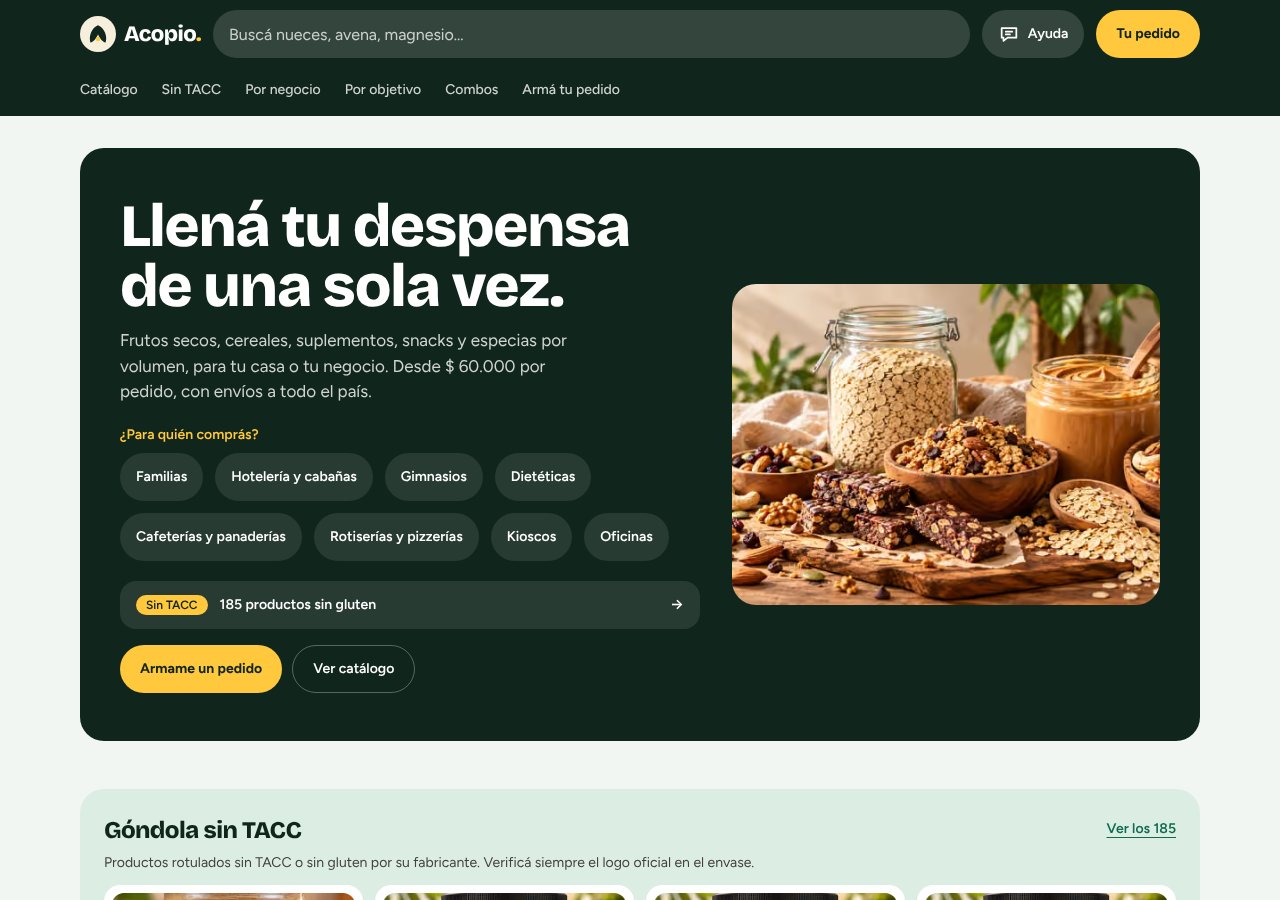
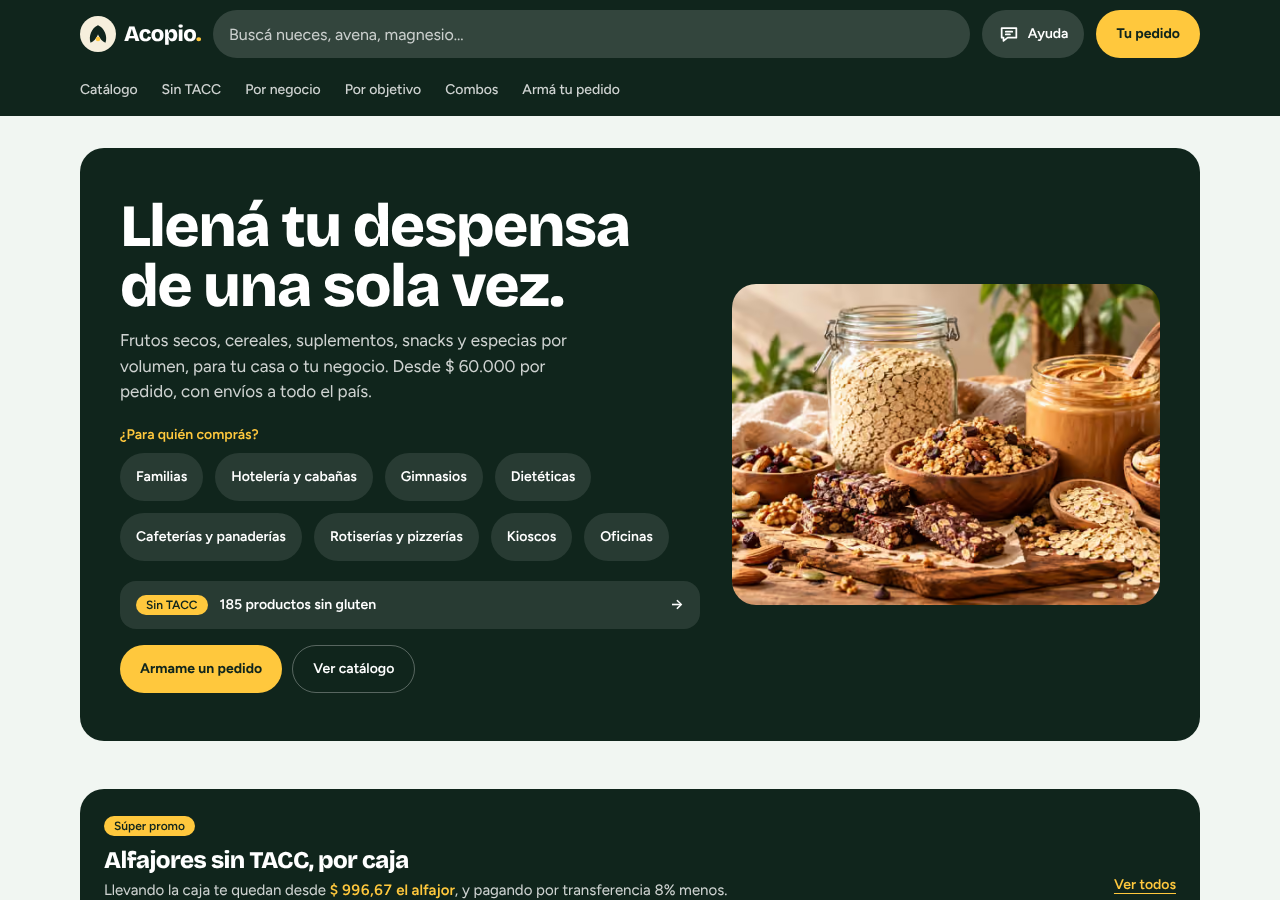
Súper promo de alfajores sin TACC en la portada (#45)
Arriba de la góndola sin TACC va una banda oscura con las cajas de alfajores
sin TACC y el gancho real: cuánto sale el alfajor suelto llevando la caja.
El número sale de dividir el precio por las unidades del rótulo, no es un
descuento inventado.

De paso, toda ficha de producto cuyo envase trae varias unidades muestra el
precio por unidad abajo del precio: es lo que el cliente compara y acá se
vende casi todo por volumen.

El texto blanco va solo en el encabezado y el aviso de la banda: adentro del
riel las fichas son blancas y el texto tiene que seguir oscuro.

Claude-Session: https://claude.ai/code/session_01AdVG5TyZmaUrU68vAP2mxP

Changed region(s): [[0.0625, 0.8711, 0.9375, 1.0]]

diff --git a/src/app/(tienda)/page.tsx b/src/app/(tienda)/page.tsx
@@ -8,7 +8,7 @@ import { leerConfig } from "@/lib/config";
 import { AVISO_SIN_TACC, WHERE_SIN_TACC, wherePublicado } from "@/lib/filtros-producto";
 import { combosTienda, productosTienda } from "@/lib/tienda";
 import { NICHOS, OBJETIVOS } from "@/lib/taxonomia";
-import { pesos } from "@/lib/precios";
+import { pesos, precioPorUnidadSuelta } from "@/lib/precios";
 import { Foto } from "@/components/Foto";
 import { BotonCargarPedido } from "@/components/Carrito";
 import { RielProductos, TarjetaCombo, TituloSeccion } from "@/components/Tienda";
@@ -20,7 +20,9 @@ export const metadata: Metadata = { alternates: { canonical: "/" } };
 export default async function Home() {
   const cfg = await leerConfig();
   const publicado = wherePublicado(cfg.margenMinimoPct);
-  const [sinTacc, totalSinTacc, ganchos, combos, pedidos, portadas, conteos, vendibles] = await Promise.all([
+  const [alfajores, sinTacc, totalSinTacc, ganchos, combos, pedidos, portadas, conteos, vendibles] = await Promise.all([
+    // Las cajas primero y las más baratas adelante: el gancho es cuánto sale el alfajor suelto.
+    productosTienda({ where: { AND: [WHERE_SIN_TACC, { producto: { contains: "alfajor", mode: "insensitive" } }, { fotoUrl: { not: null } }] }, orderBy: [{ precioPublico: "asc" }], take: 4 }),
     productosTienda({ where: { AND: [WHERE_SIN_TACC, { fotoUrl: { not: null } }] }, take: 8 }),
     prisma.product.count({ where: { AND: [publicado, WHERE_SIN_TACC] } }),
     productosTienda({ where: { gancho: true }, take: 8 }),
@@ -31,6 +33,8 @@ export default async function Home() {
     prisma.product.findMany({ where: { AND: [publicado, { comboItems: { some: { combo: { tipo: "PEDIDO_NICHO" } } } }] }, select: { codigo: true } }),
   ]);
   const seVende = new Set(vendibles.map((v) => v.codigo));
+  // El precio más bajo por alfajor suelto entre las cajas: es el número del aviso de la promo.
+  const alfajorDesde = Math.min(...alfajores.map((p) => precioPorUnidadSuelta(p.precio, p.presentacion) ?? p.precio));
   const disponibles = combos.filter((c) => c.disponible);
   const portada = new Map(portadas.map((p) => [p.categoria, p.fotoUrl]));
   const categorias = conteos.filter((c) => c.categoria !== "Sin categoría");
@@ -74,6 +78,25 @@ export default async function Home() {
           </div>
         </div>
       </section>
+
+      {alfajores.length > 0 && (
+        <section className="rounded-3xl bg-acopio-900 p-4 sm:p-6">
+          {/* El blanco va solo en el encabezado y el aviso: adentro del riel las fichas son blancas y el texto tiene que seguir oscuro. */}
+          <div className="fondo-oscuro mb-3 flex flex-wrap items-end justify-between gap-x-3 gap-y-1 text-white">
+            <div className="min-w-0">
+              <span className="chip bg-sol text-acopio-900">Súper promo</span>
+              <h2 className="mt-2 font-display text-2xl font-extrabold leading-tight tracking-tight">Alfajores sin TACC, por caja</h2>
+              <p className="mt-1 text-[15px] text-white/80">
+                Llevando la caja te quedan desde <b className="font-semibold text-sol tabular-nums">{pesos(alfajorDesde)} el alfajor</b>
+                {cfg.descuentoTransferenciaPct > 0 ? `, y pagando por transferencia ${cfg.descuentoTransferenciaPct}% menos.` : "."}
+              </p>
+            </div>
+            <Link href="/catalogo?q=alfajor&sintacc=1" className="-my-2 flex min-h-[48px] items-center whitespace-nowrap text-sm font-semibold text-sol underline underline-offset-4">Ver todos</Link>
+          </div>
+          <RielProductos productos={alfajores} />
+          <p className="mt-1 text-xs text-white/60">{AVISO_SIN_TACC}</p>
+        </section>
+      )}
 
       {sinTacc.length > 0 && (
         <section className="rounded-3xl bg-acopio-100 p-4 sm:p-6">

diff --git a/src/components/Tienda.tsx b/src/components/Tienda.tsx
@@ -1,12 +1,14 @@
 import Link from "next/link";
 import type { ComboTienda, ProductoTienda } from "@/lib/tienda";
-import { pesos, renglonCombo } from "@/lib/precios";
+import { pesos, precioPorUnidadSuelta, renglonCombo } from "@/lib/precios";
 import { AVISO_SUPLEMENTOS } from "@/lib/sitio";
 import { Foto } from "./Foto";
 import { AgregarRapido, BotonAgregar } from "./Carrito";
 
 export function TarjetaProducto({ p, className = "" }: { p: ProductoTienda; className?: string }) {
   const href = `/producto/${encodeURIComponent(p.codigo)}`;
+  // Si el envase trae varias unidades, mostramos cuánto sale cada una: es lo que el cliente compara.
+  const cadaUna = precioPorUnidadSuelta(p.precio, p.presentacion);
   return (
     <article className={`flex min-w-0 flex-col rounded-2xl bg-white p-2 shadow-ficha ${className}`}>
       {/* El enlace del nombre se estira sobre la foto y el texto: un solo destino, grande y fácil de tocar. */}
@@ -16,7 +18,10 @@ export function TarjetaProducto({ p, className = "" }: { p: ProductoTienda; clas
         <div className="flex flex-1 flex-col px-1.5 pt-2.5">
           <h3 className="text-[15px] font-semibold leading-snug"><Link href={href} className="estirado line-clamp-2 after:absolute after:inset-0 after:rounded-xl hover:underline">{p.producto}</Link></h3>
           <p className="mt-0.5 line-clamp-1 text-xs text-stone-600">{p.presentacion}</p>
-          <p className="mt-auto pb-2.5 pt-2 font-display text-xl font-bold leading-none tabular-nums">{pesos(p.precio)}</p>
+          <div className="mt-auto pb-2.5 pt-2">
+            <p className="font-display text-xl font-bold leading-none tabular-nums">{pesos(p.precio)}</p>
+            {cadaUna && <p className="mt-1 text-[11px] leading-none tabular-nums text-stone-600">{pesos(cadaUna)} por unidad</p>}
+          </div>
         </div>
       </div>
       <div className="px-1.5 pb-1.5">

diff --git a/src/lib/logica.test.ts b/src/lib/logica.test.ts
@@ -2,7 +2,7 @@ import { test } from "node:test";
 import assert from "node:assert/strict";
 import { parseCsv } from "./csv";
 import { leerCatalogoCsv } from "./catalogo";
-import { calcularCombo, descuentoMaximo, margenPct, precioPorUnidadBase } from "./precios";
+import { calcularCombo, descuentoMaximo, margenPct, precioPorUnidadBase, precioPorUnidadSuelta, unidadesPorEnvase } from "./precios";
 import { clasificarObjetivos, detectarUnidad, estimarPesoBruto, motivoOculto } from "./clasificar";
 import { urlsDesdeCampoPhotos, BASE_FOTOS } from "./fotos";
 
@@ -48,6 +48,19 @@ test("un combo no puede perforar el margen mínimo", () => {
 test("precio por kilo y por litro", () => {
   assert.deepEqual(precioPorUnidadBase(3772, 250, "ml"), { valor: 15088, etiqueta: "por litro" });
   assert.equal(precioPorUnidadBase(100, null, null), null);
+});
+
+test("las unidades del envase salen del rótulo del proveedor", () => {
+  assert.equal(unidadesPorEnvase("Caja x 6 unidades YUKA"), 6);
+  assert.equal(unidadesPorEnvase("x12 unid Sin TACC Angiola"), 12);
+  assert.equal(unidadesPorEnvase("Sobre x10 Unidades"), 10);
+  assert.equal(unidadesPorEnvase("x 12 Unid. Caja Zanna s"), 12);
+  // Un envase de a uno, o uno que solo informa peso, no tiene precio por unidad suelta.
+  assert.equal(unidadesPorEnvase("x Unidad 50G"), null);
+  assert.equal(unidadesPorEnvase("x1unid 50mts"), null);
+  assert.equal(unidadesPorEnvase("500 G"), null);
+  assert.equal(precioPorUnidadSuelta(5979.57, "Caja x 6 unidades YUKA"), 996.59);
+  assert.equal(precioPorUnidadSuelta(1094.47, "x Unidad 50G"), null);
 });
 
 test("tinturas madre y congelados quedan ocultos por defecto", () => {

diff --git a/src/lib/precios.ts b/src/lib/precios.ts
@@ -51,6 +51,19 @@ export function medida(contenido: number | null, unidad: string | null): string 
   return `${contenido.toLocaleString("es-AR", { maximumFractionDigits: 0 })} ${liquido ? "ml" : "g"}`;
 }
 
+/** Unidades que trae un envase, leídas del rótulo del proveedor ("Caja x 6 unidades" → 6). null si trae una sola. */
+export function unidadesPorEnvase(presentacion: string): number | null {
+  const m = /x\s*(\d{1,3})\s*unid/i.exec(presentacion);
+  const n = m ? Number(m[1]) : 0;
+  return n > 1 ? n : null;
+}
+
+/** Cuánto sale cada unidad dentro del envase; null si el envase trae una sola. */
+export function precioPorUnidadSuelta(precio: number, presentacion: string): number | null {
+  const unidades = unidadesPorEnvase(presentacion);
+  return unidades ? redondear2(precio / unidades) : null;
+}
+
 /** "2 × Nuez Mariposa (500 g)": cómo se nombra un producto dentro de un combo. */
 export function renglonCombo(p: { producto: string; contenido: number | null; unidad: string | null }, cantidad: number): string {
   const m = medida(p.contenido, p.unidad);
